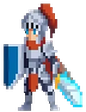
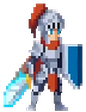
Add files via upload
change Characters'design and team member UI

diff --git a/index.html b/index.html
@@ -308,7 +308,7 @@
 <script>(function(){var f=document.getElementById("easyVideo"),v=f&&f.querySelector("video");if(!v)return;v.addEventListener("loadeddata",function(){f.classList.add("has")});v.addEventListener("error",function(){f.classList.remove("has")},true)})();</script>
 <script src="js/loader.js?v=3"></script>
 <script src="js/ui.js?v=3"></script>
-<script src="js/images.js?v=4"></script>
+<script src="js/images.js?v=5"></script>
 <script src="js/core.js?v=3"></script>
 <script src="js/python.js?v=3"></script>
 <script src="js/lessons-data.js?v=3"></script>

diff --git a/js/images.js b/js/images.js
@@ -5,7 +5,7 @@ var IMG={
   ruins:"assets/images/ruins.jpg",
   arches:"assets/images/arches.png",
   mapA:"assets/images/mapA.jpg",
-  knight:"assets/images/knight.png",
+  knight:"assets/images/knight.png?v=2",
   mage:"assets/images/mage.png",
   ranger:"assets/images/ranger.png",
   dragon:"assets/images/dragon.png?v=2",
